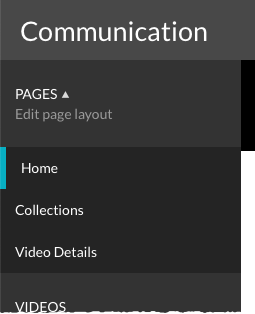
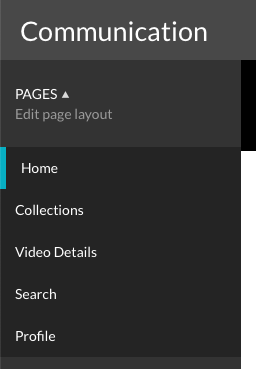
new page templates added

diff --git a/docs/experiences/overview-experience-templates.html b/docs/experiences/overview-experience-templates.html
@@ -17,7 +17,7 @@
     </ul>
     <p>Each template provides a set of page templates that can be customized and/or previewed in the Experience Editor. The page templates can be viewed by editing an experience and then by clicking <strong>PAGES</strong> in the left navigation menu.</p>
     <figure class="bcls-figure"><img class="bcls-image--no-border" alt="" src="/corp-comm/assets/images/experiences/template-pages-menu.png" /></figure>
-    <p>Click on a page name to open the page layout in the editor. In the above example, <strong>Home</strong>, <strong>Collections</strong> and <strong>Video Details</strong> pages are available. </p>
+    <p>Click on a page name to open the page layout in the editor. In the above example, <strong>Home</strong>, <strong>Collections</strong>, <strong>Video Details</strong>, <strong>Search</strong> and <strong>Profile</strong> pages are available. </p>
   </section>
   <section class="bcls-section">
     <h2 id="mosaic">Corporate Communications</h2>
@@ -28,6 +28,8 @@
       <li>Home</li>
       <li>Collections</li>
       <li>Video Details </li>
+      <li>Search</li>
+      <li>Profile</li>
     </ul>
   </section>
   <section class="bcls-section">
